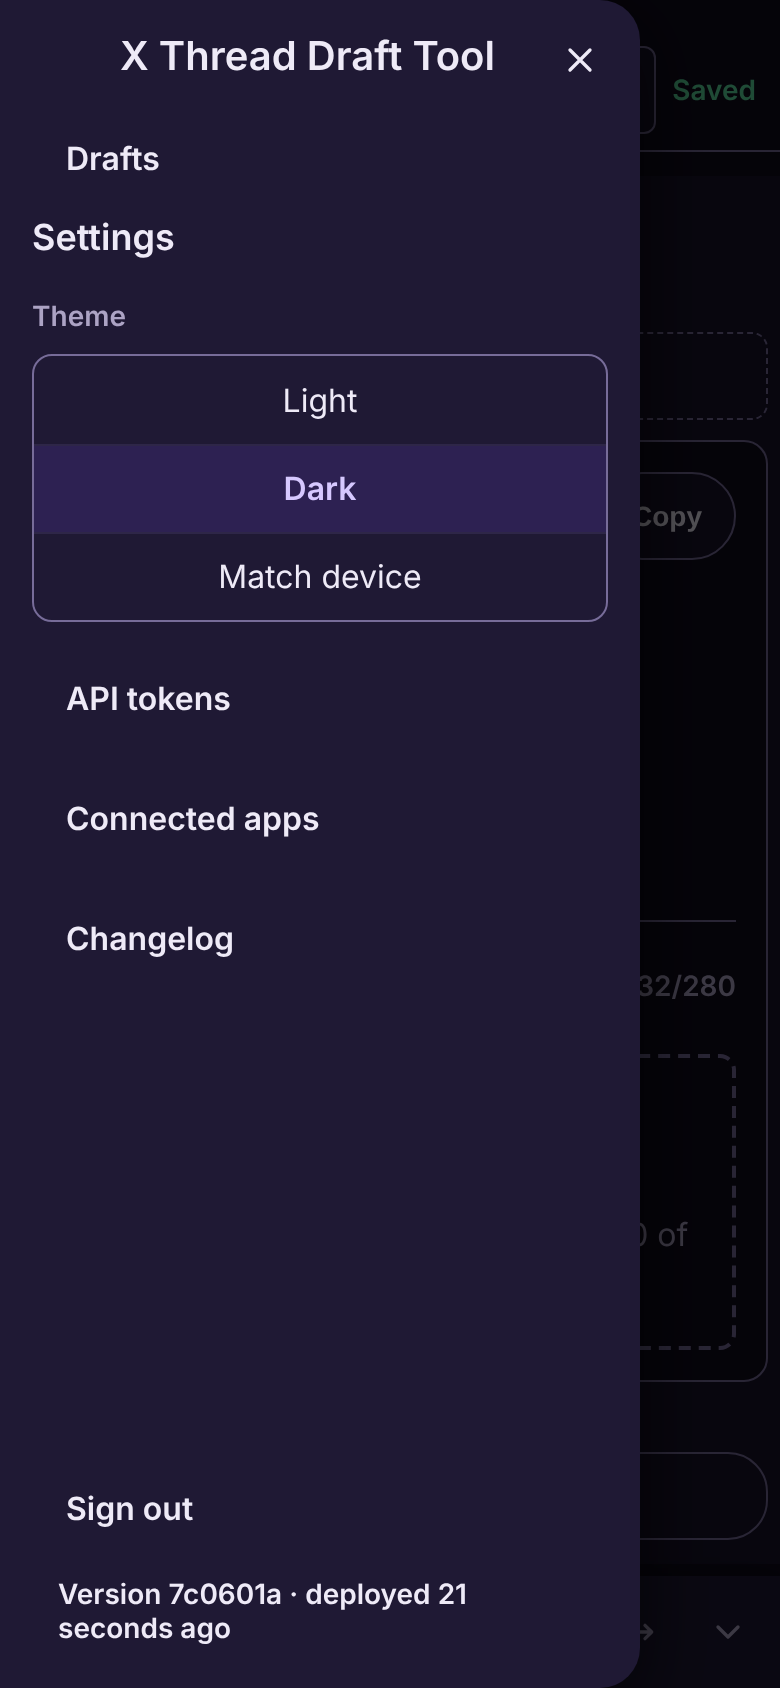
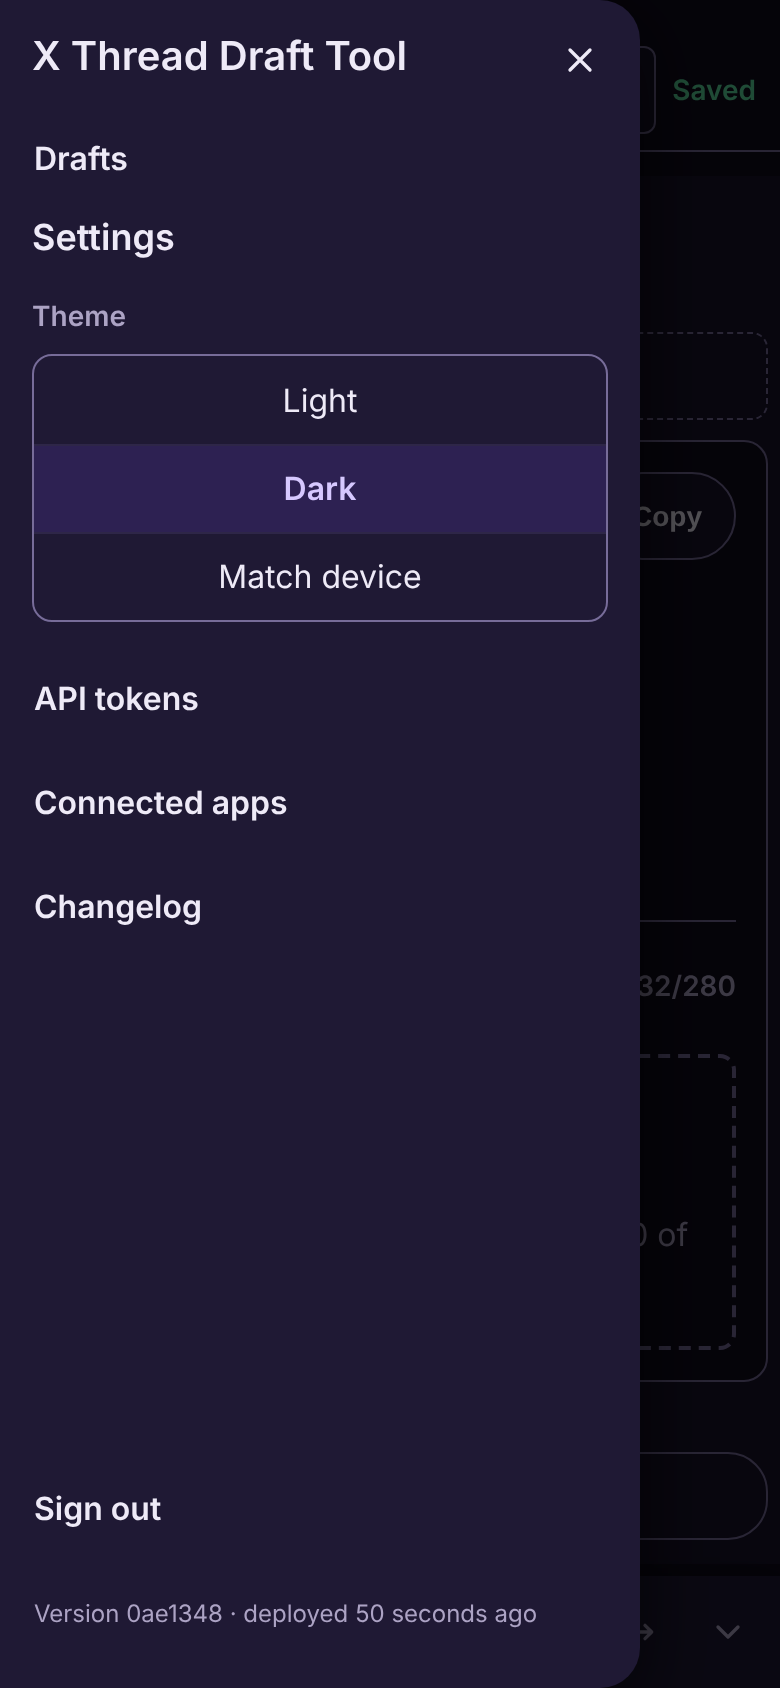
Fix app shell review findings (U7, #323)
- Restore the editor's focus ring rule that was removed with the old menu CSS (it belongs to the editor, Task 6.3a).
- Version link keeps its UTC deploy tooltip (Button takes a title prop).
- The bar's breakpoint in App.css uses (width < 768px) like AppBar.css.
- Drawer rows start on the content edge; the version line is small and soft again; the Settings links share one gap.
- The drawer title keeps clear of the close button in both directions, and follows the page direction.
- Focus returns to the Menu button (Dialog returnTo; IconButton forwards its ref), also in browsers that do not focus buttons on click.
- Dialog's open class is dialog-open (not ui-, so the UI audit does not read it as a UI element).
- The UI audit opens the drawer on the drafts page and checks it too.

Claude-Session: https://claude.ai/code/session_01UU4t2Eg6LBUP6bUBQeaZJX

diff --git a/tests/e2e/ui-audit.spec.ts b/tests/e2e/ui-audit.spec.ts
@@ -15,7 +15,7 @@ const OUT = path.join('test-results', 'ui-audit')
 
 // Pages under audit. A page joins when its migration PR lands (plan section 5, rules for every migration PR).
 // `drafts` are seeded for that page's user (the draft list with rows, one Hebrew title for the RTL pass).
-const MIGRATED: { name: string; path: string; drafts?: Seed[] }[] = [
+const MIGRATED: { name: string; path: string; drafts?: Seed[]; menu?: boolean }[] = [
   { name: 'about', path: '/about' },
   { name: 'changelog', path: '/changelog' },
   { name: 'tokens', path: '/settings/tokens' },
@@ -28,6 +28,13 @@ const MIGRATED: { name: string; path: string; drafts?: Seed[] }[] = [
       { title: 'שרשור לדוגמה', posts: [{ id: 'h1', text: 'טקסט בעברית', images: [], embeddedTweet: null }] },
       { title: 'Second thread', posts: [{ id: 'e1', text: 'Some text', images: [], embeddedTweet: null }] }
     ]
+  },
+  // The same page with the menu drawer open.
+  {
+    name: 'drafts-menu',
+    path: '/',
+    menu: true,
+    drafts: [{ title: 'Second thread', posts: [{ id: 'e1', text: 'Some text', images: [], embeddedTweet: null }] }]
   }
 ]
 
@@ -82,7 +89,7 @@ async function devToken(request: APIRequestContext, login: string): Promise<stri
 }
 
 type Seed = { title: string; posts: unknown[] }
-async function openPage(browser: Browser, request: APIRequestContext, pagePath: string, c: (typeof CASES)[number], extra: { heading?: string; drafts?: Seed[] } = {}) {
+async function openPage(browser: Browser, request: APIRequestContext, pagePath: string, c: (typeof CASES)[number], extra: { heading?: string; drafts?: Seed[]; menu?: boolean } = {}) {
   const phone = c.width < 800
   const context: BrowserContext = await browser.newContext({
     viewport: { width: c.width, height: phone ? 844 : 800 },
@@ -110,6 +117,12 @@ async function openPage(browser: Browser, request: APIRequestContext, pagePath: 
   await expect(extra.heading ? page.getByRole('heading', { name: extra.heading, level: 1 }) : page.getByRole('heading', { level: 1 })).toBeVisible()
   await expect(page.getByText('Loading…')).toHaveCount(0)
   if (c.rtl) await page.evaluate(() => document.documentElement.setAttribute('dir', 'rtl'))
+  // The menu drawer (a Dialog on the start edge) is audited open, so its targets, type and colours are checked too.
+  if (extra.menu) {
+    await page.getByRole('button', { name: 'Menu', exact: true }).click()
+    await expect(page.locator('#app-menu')).toBeVisible()
+    await page.waitForTimeout(300)
+  }
   return { context, page }
 }
 
@@ -186,7 +199,7 @@ test.describe('UI audit', () => {
   for (const pageInfo of MIGRATED) {
     for (const c of CASES) {
       test(`${pageInfo.name} at ${c.name}`, async ({ browser, request }) => {
-        const { context, page } = await openPage(browser, request, pageInfo.path, c, { drafts: pageInfo.drafts })
+        const { context, page } = await openPage(browser, request, pageInfo.path, c, { drafts: pageInfo.drafts, menu: pageInfo.menu })
         try {
           // No horizontal scroll (plan: scrollWidth <= innerWidth).
           const widths = await page.evaluate(() => ({ scroll: document.documentElement.scrollWidth, inner: window.innerWidth }))

diff --git a/src/components/AppMenu.jsx b/src/components/AppMenu.jsx
@@ -1,10 +1,11 @@
-import { useCallback, useState } from 'react'
+import { useCallback, useRef, useState } from 'react'
 import { useLocation } from 'react-router-dom'
-import { formatVersion, localBuildInfo } from '../utils/version'
+import { formatVersion, localBuildInfo, utcText } from '../utils/version'
 import Button from '../ui/Button'
 import Dialog from '../ui/Dialog'
 import IconButton from '../ui/IconButton'
 import Section from '../ui/Section'
+import Stack from '../ui/Stack'
 import { signOut } from './LogoutButton'
 import ThemeSetting from './ThemeSetting'
 import './AppMenu.css'
@@ -20,14 +21,15 @@ export default function AppMenu() {
   const setOpen = useCallback((next) => setOpenAt(next ? pathname : null), [pathname])
 
   const close = () => setOpen(false)
+  const menuButton = useRef(null)
   const build = localBuildInfo()
   const version = formatVersion(build, new Date())
 
   // Focus, Escape, the scrim, the inert page and focus return come from Dialog.
   return (
     <>
-      <IconButton icon="menu" label="Menu" expanded={open} controls="app-menu" onClick={() => setOpen(true)} />
-      <Dialog id="app-menu" open={open} onClose={close} placement="sheet-start" title="X Thread Draft Tool">
+      <IconButton ref={menuButton} icon="menu" label="Menu" expanded={open} controls="app-menu" onClick={() => setOpen(true)} />
+      <Dialog id="app-menu" open={open} onClose={close} placement="sheet-start" title="X Thread Draft Tool" returnTo={menuButton}>
         <div className="app-menu-close">
           <IconButton icon="close" label="Close menu" onClick={close} />
         </div>
@@ -39,21 +41,23 @@ export default function AppMenu() {
           </div>
           <Section title="Settings" headingLevel={3}>
             <ThemeSetting />
-            <Button variant="ghost" fullWidth to="/settings/tokens" onClick={close}>
-              API tokens
-            </Button>
-            <Button variant="ghost" fullWidth to="/settings/apps" onClick={close}>
-              Connected apps
-            </Button>
-            <Button variant="ghost" fullWidth to="/changelog" onClick={close}>
-              Changelog
-            </Button>
+            <Stack gap={2}>
+              <Button variant="ghost" fullWidth to="/settings/tokens" onClick={close}>
+                API tokens
+              </Button>
+              <Button variant="ghost" fullWidth to="/settings/apps" onClick={close}>
+                Connected apps
+              </Button>
+              <Button variant="ghost" fullWidth to="/changelog" onClick={close}>
+                Changelog
+              </Button>
+            </Stack>
           </Section>
           <div className="app-menu-foot">
             <Button variant="ghost" fullWidth onClick={signOut}>
               Sign out
             </Button>
-            <Button variant="ghost" size="sm" fullWidth to="/about" onClick={close}>
+            <Button variant="ghost" size="sm" fullWidth to="/about" onClick={close} title={utcText(build?.deployed_at)}>
               Version {version.short} · deployed {version.ago}
             </Button>
           </div>

diff --git a/src/ui/Dialog.jsx b/src/ui/Dialog.jsx
@@ -12,22 +12,24 @@ const FOCUSABLE = 'a[href], button:not([disabled]), input:not([disabled]), selec
 // `actions`: [{ label, variant, onClick, autoFocus }]; the one with `autoFocus` gets focus first.
 // `placement`: 'center' (default) or 'sheet-start', a drawer on the inline start edge (the app menu).
 // Focus goes to the first element inside `[data-autofocus]` when there is one (a link or a button), else the first control.
-export default function Dialog({ open, onClose, title, description, children, actions = [], dismissible = true, placement = 'center', id }) {
+// `returnTo`: a ref to the element that focus returns to on close (optional).
+export default function Dialog({ open, onClose, title, description, children, actions = [], dismissible = true, placement = 'center', id, returnTo }) {
   const panel = useRef(null)
   const titleId = useId()
   const descriptionId = useId()
   // Latest values for the effect below, which must run only when the dialog opens or closes.
-  const latest = useRef({ onClose, dismissible })
+  const latest = useRef({ onClose, dismissible, returnTo })
   useEffect(() => {
-    latest.current = { onClose, dismissible }
+    latest.current = { onClose, dismissible, returnTo }
   })
 
   useEffect(() => {
     if (!open) return undefined
     const root = document.getElementById('root')
-    const opener = document.activeElement
+    // Focus goes back to `returnTo` when given (a button that Safari does not focus on click), else to what had focus.
+    const opener = latest.current.returnTo?.current ?? document.activeElement
     root?.setAttribute('inert', '')
-    document.documentElement.classList.add('ui-dialog-open')
+    document.documentElement.classList.add('dialog-open')
     const box = panel.current
     const start = box?.querySelector('[data-autofocus] a, [data-autofocus] button') ?? box?.querySelector(FOCUSABLE) ?? box
     start?.focus()
@@ -52,7 +54,7 @@ export default function Dialog({ open, onClose, title, description, children, ac
     return () => {
       document.removeEventListener('keydown', onKey)
       root?.removeAttribute('inert')
-      document.documentElement.classList.remove('ui-dialog-open')
+      document.documentElement.classList.remove('dialog-open')
       if (opener instanceof HTMLElement && opener.isConnected) opener.focus()
     }
   }, [open])

diff --git a/tests/unit/AppMenu.test.jsx b/tests/unit/AppMenu.test.jsx
@@ -25,7 +25,7 @@ describe('AppMenu', () => {
   })
   afterEach(() => {
     cleanup()
-    document.documentElement.classList.remove('ui-dialog-open')
+    document.documentElement.classList.remove('dialog-open')
   })
 
   it('is closed on load and opens on click with aria-expanded and an inert page', async () => {
@@ -96,12 +96,12 @@ describe('AppMenu', () => {
     await act(async () => router.navigate('/b'))
     expect(document.getElementById('app-menu')).toBeNull()
     expect(document.getElementById('root')).not.toHaveAttribute('inert')
-    expect(document.documentElement.classList.contains('ui-dialog-open')).toBe(false)
+    expect(document.documentElement.classList.contains('dialog-open')).toBe(false)
     await act(async () => router.navigate(-1))
     expect(router.state.location.pathname).toBe('/a')
     expect(document.getElementById('app-menu')).toBeNull()
     expect(document.getElementById('root')).not.toHaveAttribute('inert')
-    expect(document.documentElement.classList.contains('ui-dialog-open')).toBe(false)
+    expect(document.documentElement.classList.contains('dialog-open')).toBe(false)
   })
 
   it('shows Theme and signs out through authApi.logout', async () => {

diff --git a/src/ui/IconButton.jsx b/src/ui/IconButton.jsx
@@ -1,14 +1,18 @@
-import { useId } from 'react'
+import { forwardRef, useId } from 'react'
 import Icon from './Icon'
 import './IconButton.css'
 
-// An icon-only button: always 44 x 44. `label` is required (aria-label and the tooltip).
-export default function IconButton({ icon, label, variant = 'ghost', pressed, expanded, controls, disabled = false, disabledReason, onClick }) {
+// An icon-only button: always 44 x 44. `label` is required (aria-label and the tooltip). `ref` goes to the button.
+const IconButton = forwardRef(function IconButton(
+  { icon, label, variant = 'ghost', pressed, expanded, controls, disabled = false, disabledReason, onClick },
+  ref
+) {
   const reasonId = useId()
   const className = ['ui-icon-button', `ui-icon-button--${variant}`, pressed ? 'ui-icon-button--pressed' : ''].filter(Boolean).join(' ')
   return (
     <>
       <button
+        ref={ref}
         type="button"
         className={className}
         aria-label={label}
@@ -33,4 +37,6 @@ export default function IconButton({ icon, label, variant = 'ghost', pressed, ex
       )}
     </>
   )
-}
+})
+
+export default IconButton

diff --git a/src/styles/App.css b/src/styles/App.css
@@ -1032,7 +1032,7 @@ a {
    publish button in the bar, and the share menus that open above it. */
 :root { --bar-space: 0px; }
 
-@media (max-width: 768px) {
+@media (width < 768px) {
   :root[data-bar='shown'] { --bar-space: calc(var(--bar-h) + env(safe-area-inset-bottom, 0px)); }
   :root[data-bar='hidden'] { --bar-space: calc(24px + env(safe-area-inset-bottom, 0px)); }
   html { scroll-padding-bottom: var(--bar-space); }
@@ -1355,4 +1355,10 @@ a {
 
 .draft-editor .share-btn {
   min-height: 44px;
+}
+
+/* Editor page (Task 6.3a): visible focus ring, 44 px header targets. */
+.draft-editor :is(a, button, input, textarea, [role="button"]):focus-visible {
+  outline: 2px solid var(--focus);
+  outline-offset: 2px;
 }

diff --git a/src/components/AppMenu.css b/src/components/AppMenu.css
@@ -6,8 +6,10 @@
   gap: var(--space-2);
 }
 
+/* Rows start at the drawer's content edge, the same as the headings and the theme box. */
 .app-menu .ui-button {
   justify-content: flex-start;
+  padding-inline: var(--space-0);
 }
 
 .app-menu-foot {
@@ -22,6 +24,13 @@
   position: absolute;
   inset-block-start: var(--space-2);
   inset-inline-end: var(--space-2);
+}
+
+/* The version line is a small soft line, as it was before the drawer moved to kit buttons. */
+.app-menu-foot .ui-button--sm {
+  color: var(--color-text-soft);
+  font-size: var(--font-size-xs);
+  font-weight: var(--font-weight-regular);
 }
 
 /* The version line may wrap onto two lines at the drawer's width; it stays a 44 px target at least. */

diff --git a/src/ui/Dialog.css b/src/ui/Dialog.css
@@ -1,5 +1,5 @@
 /* Dialog: centred from 600 px, a bottom sheet below. The scrim and panel enter with the slow motion token. */
-html.ui-dialog-open {
+html.dialog-open {
   overflow: hidden;
 }
 
@@ -140,6 +140,9 @@ html.ui-dialog-open {
 }
 
 /* The drawer's title keeps clear of a close button in either top corner (the menu's close button). */
+/* The title starts where the drawer's text starts (its direction follows the page, so it sits on the start edge in RTL too)
+   and keeps clear of the close button, which is always at the inline end. */
 .ui-dialog--sheet-start .ui-dialog__title {
-  padding-inline: var(--hit-min);
+  direction: inherit;
+  padding-inline-end: var(--space-10);
 }

diff --git a/src/ui/Button.jsx b/src/ui/Button.jsx
@@ -35,6 +35,7 @@ export default function Button({
   href,
   onClick,
   ariaLabel,
+  title,
   children
 }) {
   const reasonId = useId()
@@ -55,7 +56,7 @@ export default function Button({
     'aria-disabled': disabled || disabledReason ? true : undefined,
     'aria-label': ariaLabel,
     'aria-describedby': disabledReason ? reasonId : undefined,
-    title: disabledReason
+    title: disabledReason || title
   }
   const content = <ButtonContent icon={icon} loading={loading} loadingLabel={loadingLabel}>{children}</ButtonContent>
 

diff --git a/src/ui/SegmentedControl.css b/src/ui/SegmentedControl.css
@@ -63,6 +63,7 @@
 /* The radio stays in the tab order and the arrow keys work, but it is drawn by its label. */
 .ui-segmented__input {
   position: absolute;
+  font-size: var(--font-size-md);
   inset-block-start: var(--space-0);
   inset-inline-start: var(--space-0);
   inline-size: var(--space-0);

diff --git a/docs/architecture/ui-components.md b/docs/architecture/ui-components.md
@@ -129,6 +129,7 @@ file has a section, a `Status:` line (`built`, or `not built:` with a reason), a
 | `to` | route | | Renders a link that looks like a button. |
 | `href` | URL | | Renders an anchor that looks like a button. |
 | `ariaLabel` | string | | The accessible name when the visible label is not enough (for example "Revoke access for <app>"). |
+| `title` | string | | The tooltip. A `disabledReason` takes its place. |
 | `onClick` | function | | |
 
 - States: default, hover (only where hover exists), pressed (scale 0.98), focus-visible (the base focus ring), disabled (half opacity), loading, disabled with reason.
@@ -150,6 +151,7 @@ file has a section, a `Status:` line (`built`, or `not built:` with a reason), a
 | `disabled` | boolean | `false` | |
 | `disabledReason` | string | | As in Button. |
 | `onClick` | function | | |
+| `ref` | ref | | Forwarded to the `button`, so a caller can return focus to it (the menu does). |
 
 - States: always 44 x 44. Hover, pressed, focus-visible, disabled, pressed.
 - Example: `<IconButton icon="menu" label="Menu" onClick={open} />`
@@ -310,6 +312,7 @@ file has a section, a `Status:` line (`built`, or `not built:` with a reason), a
 | `children` | node | | More content between the text and the buttons. |
 | `actions` | `[{ label, variant, onClick, autoFocus }]` | `[]` | Buttons; the one with `autoFocus` gets focus first. Under 600 px they stack, the last one on top. |
 | `dismissible` | boolean | `true` | `false` ignores Escape and the scrim. |
+| `returnTo` | ref | | Where focus goes on close. Default: the element that had focus when it opened. |
 | `placement` | `center` \| `sheet-start` | `center` | `sheet-start` is the menu drawer: a full-height panel on the inline start edge, `--drawer-w` wide, mirrored under RTL. |
 | `id` | string | | Set on the panel (the menu uses it for `aria-controls`). |
 
